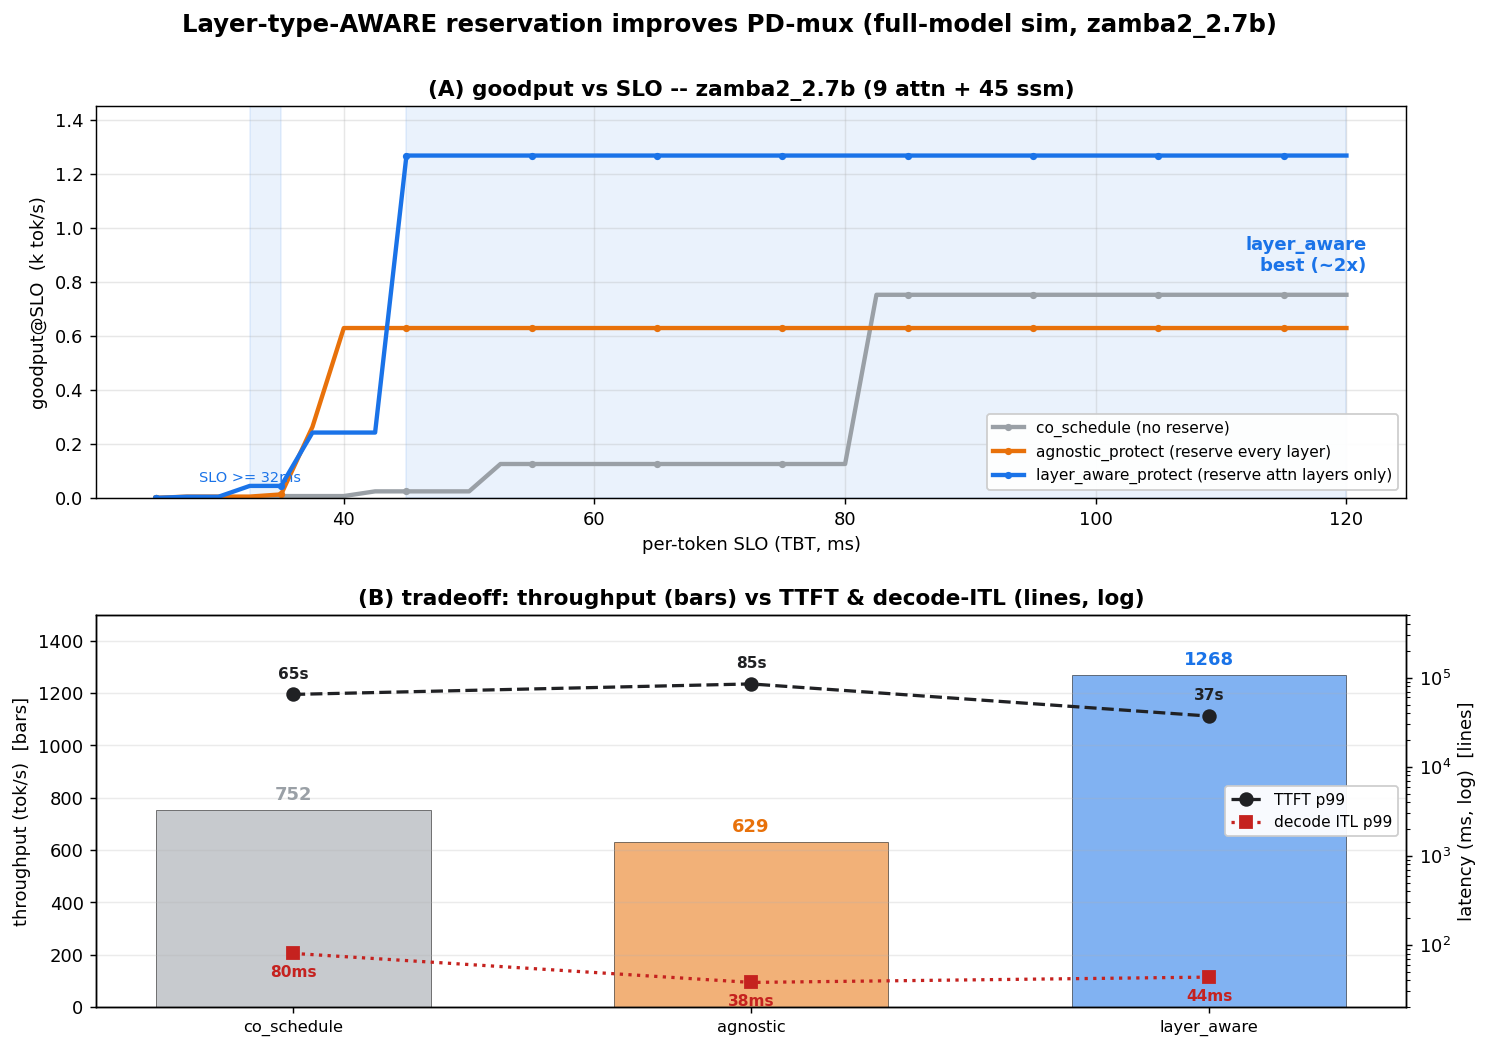
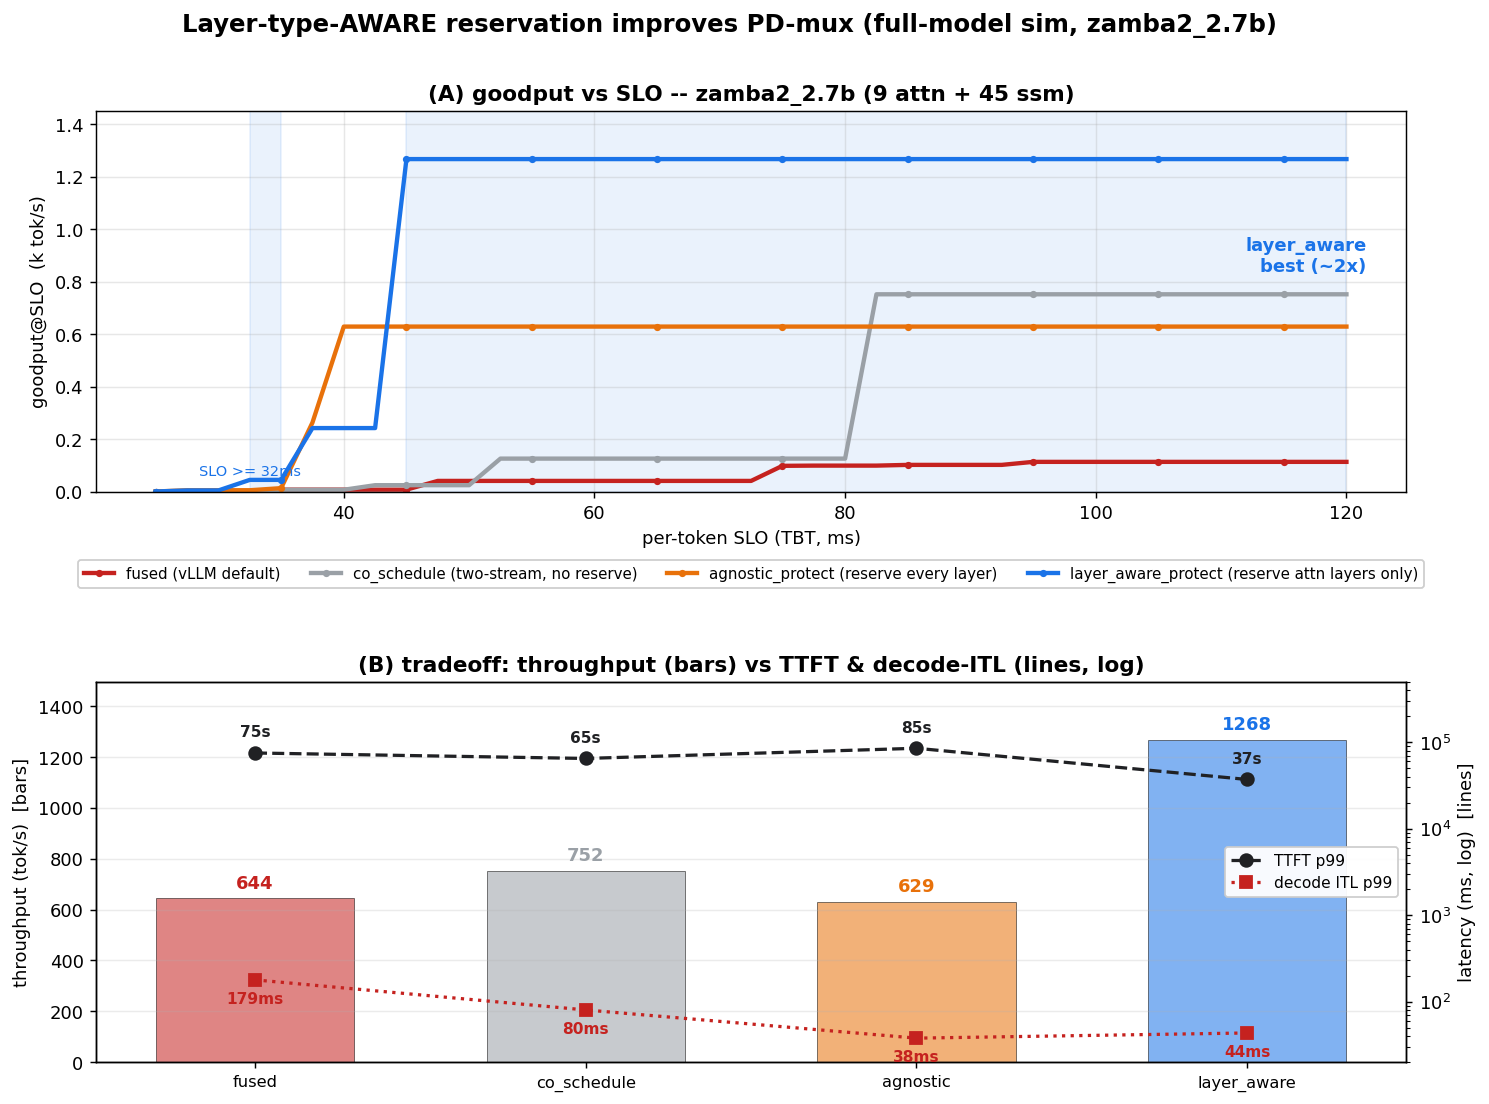
layer_aware_result: add fused (vLLM) -> complete 4-way comparison
Added fused as the 4th policy (fused/co_schedule/agnostic/layer_aware) using its sync scheduler
(_SCHED). Panel A: fused (red) sits at the bottom (decode ITL ~179ms -> fails tight SLOs),
co_schedule/agnostic mid, layer_aware dominates. Panel B: 4 bars (644/752/629/1268 tok/s) with
fused ITL 179ms highest on the log axis. Moved panel-A legend below the axes (4-way legend would
cover agnostic/fused if placed inside); wider/taller figure + more hspace. Updated figure_index.

diff --git a/workspace/characterization/experiments/e6_queue_sim/make_layer_aware_figs.py b/workspace/characterization/experiments/e6_queue_sim/make_layer_aware_figs.py
@@ -25,7 +25,7 @@ matplotlib.use("Agg")
 import matplotlib.pyplot as plt
 from matplotlib.patches import Patch
 
-from experiments.e6_queue_sim.run_layer_aware import FullModelLM, _POLICY
+from experiments.e6_queue_sim.run_layer_aware import FullModelLM, _POLICY, _SCHED
 from experiments.e6_queue_sim.workload import gen_requests
 from experiments.e6_queue_sim.simulator import simulate
 from experiments.e6_queue_sim.run_queue_sim import metrics
@@ -35,11 +35,12 @@ MODEL = "zamba2_2.7b"
 BUDGET = 8
 LAM = 0.5
 CTX = 4096
-POLICIES = ["co_schedule", "agnostic_protect", "layer_aware_protect"]
-LABELS = {"co_schedule": "co_schedule\n(no reserve)",
+POLICIES = ["fused", "co_schedule", "agnostic_protect", "layer_aware_protect"]
+LABELS = {"fused": "fused\n(vLLM default)",
+          "co_schedule": "co_schedule\n(two-stream, no reserve)",
           "agnostic_protect": "agnostic_protect\n(reserve every layer)",
           "layer_aware_protect": "layer_aware_protect\n(reserve attn layers only)"}
-COL = {"co_schedule": "#9aa0a6", "agnostic_protect": "#e8710a", "layer_aware_protect": "#1a73e8"}
+COL = {"fused": "#c5221f", "co_schedule": "#9aa0a6", "agnostic_protect": "#e8710a", "layer_aware_protect": "#1a73e8"}
 
 cfg = get_model_config(MODEL)
 L = cfg["num_layers"]
@@ -53,7 +54,7 @@ lm = FullModelLM(lut, n_a, n_s)
 sim = {}
 for pol in POLICIES:
     reqs = gen_requests(400, LAM, [512, 1024, 2048, 4096], [64, 128, 256], 256, 0)
-    reqs, st = simulate(reqs, pol, lm, "full", "full", CTX, prefill_budget=BUDGET, scheduler="decoupled")
+    reqs, st = simulate(reqs, pol, lm, "full", "full", CTX, prefill_budget=BUDGET, scheduler=_SCHED[pol])
     sim[pol] = (reqs, st["makespan_ms"])
 
 SLO = np.arange(25, 121, 2.5)
@@ -61,8 +62,8 @@ good = {p: np.array([metrics(sim[p][0], sim[p][1], s)["goodput_tok_s"] for s in 
 # scalar summaries (ITL/throughput are SLO-independent; take at a loose SLO)
 summ = {p: metrics(sim[p][0], sim[p][1], 100.0) for p in POLICIES}
 
-fig = plt.figure(figsize=(13, 9))
-gs = fig.add_gridspec(2, 1, hspace=0.3)
+fig = plt.figure(figsize=(13, 9.5))
+gs = fig.add_gridspec(2, 1, hspace=0.5)
 
 # ---- Panel A: goodput vs SLO ----
 axA = fig.add_subplot(gs[0, 0])
@@ -84,7 +85,8 @@ if win.any():
 axA.set_xlabel("per-token SLO (TBT, ms)")
 axA.set_ylabel("goodput@SLO  (k tok/s)")
 axA.set_title("(A) goodput vs SLO -- zamba2_2.7b (9 attn + 45 ssm)", fontweight="bold")
-axA.legend(fontsize=8.5, loc="lower right", framealpha=0.95)   # lower-right is the empty band
+axA.legend(fontsize=8.3, loc="upper center", bbox_to_anchor=(0.5, -0.16), ncol=4,
+           framealpha=0.95)   # below the panel (4-way legend covers data if placed inside)
 axA.grid(alpha=0.3)
 axA.set_ylim(0, 1.45)
 
@@ -96,7 +98,7 @@ x = np.arange(len(POLICIES))
 thr = [summ[p]["throughput_tok_s"] for p in POLICIES]
 ttft = [summ[p]["ttft_p99"] for p in POLICIES]          # ms
 itl = [summ[p]["itl_p99"] for p in POLICIES]            # ms
-short = {"co_schedule": "co_schedule", "agnostic_protect": "agnostic", "layer_aware_protect": "layer_aware"}
+short = {"fused": "fused", "co_schedule": "co_schedule", "agnostic_protect": "agnostic", "layer_aware_protect": "layer_aware"}
 axB.bar(x, thr, 0.6, color=[COL[p] for p in POLICIES], alpha=0.55, edgecolor="k", linewidth=0.5, zorder=1)
 for i in range(len(POLICIES)):
     axB.text(i, thr[i] + 25, f"{thr[i]:.0f}", ha="center", va="bottom", fontsize=10, fontweight="bold",

diff --git a/reports/figure_index.md b/reports/figure_index.md
@@ -20,7 +20,7 @@
 | 그림 | 패널 | **무엇을 보여주나** | 뒷받침 주장 |
 |---|---|---|---|
 | **summary_dashboard.png** | 3-panel | (A) la/agnostic goodput 1.37/2.02/1.82× (zamba2 크기별) · (B) attn-decode 비용 판별자(zamba2 0.59ms vs falcon 0.056ms) · (C) vLLM sim-vs-실측 decode 비율 | 프로젝트 전체 헤드라인 1장 |
-| **layer_aware_result.png** | 3-panel | (A) **goodput vs SLO** 곡선 — SLO≥~48ms서 layer_aware 우위 음영 · (B) throughput↑/TTFT↓/ITL tradeoff 막대 · (C) **메커니즘**: 54-레이어 forward의 SM 배분(attn만 예약, ssm은 prefill 환원) | layer_aware 양성 결과 + 작동 원리 (zamba2_2.7b) |
+| **layer_aware_result.png** | 2-panel | (A) **goodput vs SLO** — 4정책(fused/co_schedule/agnostic/layer_aware) 곡선 + layer_aware 우위 음영 · (B) tradeoff: throughput 막대 + TTFT·ITL(우축 log) | layer_aware vs 전 baseline(fused=vLLM 포함) (zamba2_2.7b) |
 | **layer_aware_size_trend.png** | 2-panel | (A) **la/agnostic 비율** 1.37/2.02/1.82× (peak 2.7B) · (B) 정책별 절대 goodput(co/agnostic/layer_aware) 모델별 | layer_aware가 1.2B–7B 전 구간 이득 |
 | **temporal_vs_spatial.png** | 2-panel | (A) zamba2(temporal): 9개 *비싼* attn 스파이크 + 45개 싼 ssm (분리 가능) · (B) falcon(spatial): 매 레이어 attn(GQA로 작음)+ssm 병렬 | **왜 temporal-only인가** (per-layer decode 구조) |
 | **layer_aware_applicability.png** | 2-panel | zamba2(temporal, attn/ssm 분리→적용 ✓) vs falcon(spatial, 병렬→N/A) 레이어 배치 도식 | 적용 범위 = temporal 하이브리드 |
@@ -49,7 +49,7 @@
 
 ### A의 그림으로 답하는 핵심 질문
 - "layer_aware가 정말 이득인가?" → **layer_aware_result(A)·size_trend**
-- "어떻게 작동하나?" → **layer_aware_result(C) 메커니즘**
+- "어떻게 작동하나?" → **mechanism_schematic**
 - "왜 temporal만?" → **temporal_vs_spatial · applicability**
 - "vLLM 대비 어떤가?" → **framework_comparison · vllm_calibration**
 - "한 장 요약?" → **summary_dashboard**
